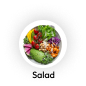
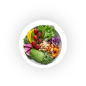
added FoodCircle and completed page

Changed region(s): [[0.3721, 0.814, 0.6512, 0.9302]]

diff --git a/lib/screens/food_offer.dart b/lib/screens/food_offer.dart
@@ -1,0 +1,151 @@
+import 'package:flutter/material.dart';
+import 'package:shimmer_app/widgets/food_card.dart';
+import 'package:shimmer_app/widgets/food_circle.dart';
+import '../utils/colored_side.dart';
+
+class FoodOffer extends StatefulWidget {
+  const FoodOffer({super.key});
+
+  @override
+  State<FoodOffer> createState() => _FoodOfferState();
+}
+
+class _FoodOfferState extends State<FoodOffer> {
+  List<String> mainImages = [
+    'assets/images/burger.png',
+    'assets/images/pizza.png',
+    'assets/images/pasta.png'
+  ];
+
+  List<String> dishes = [
+    'assets/images/food1.png',
+    'assets/images/food2.png',
+    'assets/images/food3.png',
+    'assets/images/food4.png',
+    'assets/images/food5.png',
+    'assets/images/food6.png',
+    'assets/images/food7.png',
+    'assets/images/food8.png',
+  ];
+
+  List<String> foodNames = [
+    'Vegan',
+    'Sea food',
+    'Fast food',
+    'Kebab',
+    'Salad',
+    'Dessert',
+    'Cake',
+    'Coffee'
+  ];
+
+  @override
+  Widget build(BuildContext context) {
+    return Scaffold(
+      body: SafeArea(
+        child: Stack(
+          clipBehavior: Clip.none,
+          children: [
+            Container(
+              child: CustomPaint(
+                size: const Size(144, 800),
+                painter: ColoredSide(),
+              ),
+            ),
+            const Positioned(
+                top: 60,
+                left: 32,
+                child: Icon(
+                  Icons.menu,
+                  size: 35,
+                )),
+            Positioned(
+                top: 16,
+                left: 125,
+                child: Image.asset('assets/images/logo.png')),
+            const Positioned(
+              top: 150,
+              left: 40,
+              child: Column(
+                children: [
+                  Text('Delicious Food? ', style: TextStyle(fontSize: 15)),
+                  Text(
+                    'Go Ahead...',
+                    style: TextStyle(fontSize: 15),
+                  ),
+                ],
+              ),
+            ),
+            Positioned(
+              top: 239,
+              left: 43,
+              child: SizedBox(
+                height: 138,
+                width: 275,
+                child: Row(
+                    mainAxisAlignment: MainAxisAlignment.spaceEvenly,
+                    children: List.generate(3, (index) {
+                      return FoodCard(imagePath: mainImages[index]);
+                    })),
+              ),
+            ),
+            Positioned(
+                top: 434,
+                left: 143,
+                child: Container(
+                  height: 17,
+                  width: 72,
+                  decoration: const BoxDecoration(
+                      border: Border(
+                          bottom: BorderSide(
+                              color: Color.fromRGBO(50, 117, 255, 1)))),
+                  child: const Center(
+                    child: Text(
+                      'See More...',
+                      style: TextStyle(
+                          fontSize: 10, color: Color.fromRGBO(50, 117, 255, 1)),
+                    ),
+                  ),
+                )),
+            Positioned(
+              top: 467,
+              left: 25,
+              child: Column(
+                mainAxisAlignment: MainAxisAlignment.center,
+                children: [
+                  SizedBox(
+                    height: 70,
+                    width: 321,
+                    child: Row(
+                      mainAxisAlignment: MainAxisAlignment.spaceEvenly,
+                      children: List.generate(4, (index) {
+                        return FoodCircle(
+                          imagePath: dishes[index],
+                          foodName: foodNames[index],
+                        );
+                      }),
+                    ),
+                  ),
+                  const SizedBox(
+                    height: 16,
+                  ),
+                  SizedBox(
+                    height: 70,
+                    width: 321,
+                    child: Row(
+                        mainAxisAlignment: MainAxisAlignment.spaceEvenly,
+                        children: List.generate(4, (index) {
+                          return FoodCircle(
+                              imagePath: dishes[index + 4],
+                              foodName: foodNames[index + 4]);
+                        })),
+                  ),
+                ],
+              ),
+            ),
+          ],
+        ),
+      ),
+    );
+  }
+}

diff --git a/lib/screens/home_screen.dart b/lib/screens/home_screen.dart
@@ -1,6 +1,7 @@
 import 'package:flutter/material.dart';
-import 'package:shimmer_app/food_offer.dart';
+import 'package:shimmer_app/screens/food_offer.dart';
 import 'package:icons_plus/icons_plus.dart';
+import 'package:shimmer_app/screens/welcome_screen.dart';
 
 class HomeScreen extends StatefulWidget {
   const HomeScreen({super.key});
@@ -11,11 +12,11 @@ class HomeScreen extends StatefulWidget {
 
 class _HomeScreenState extends State<HomeScreen> {
   List<Widget> pages = [
+    const WelcomeScreen(),
     const FoodOffer(),
-    const FoodOffer(),
-    const FoodOffer(),
-    const FoodOffer(),
-    const FoodOffer(),
+    const WelcomeScreen(),
+    const WelcomeScreen(),
+    const WelcomeScreen(),
   ];
   int pageIndex = 0;
 
@@ -34,19 +35,28 @@ class _HomeScreenState extends State<HomeScreen> {
         ),
         child: NavigationBar(
           selectedIndex: pageIndex,
-          destinations: const [
-            NavigationDestination(
-                icon: Icon(AntDesign.home_outline), label: ''),
-            NavigationDestination(
-                icon: Icon(AntDesign.heart_outline), label: ''),
-            NavigationDestination(
+          destinations: [
+            const NavigationDestination(
                 icon: Icon(
-                  AntDesign.shopping_cart_outline,
+                  AntDesign.home_outline,
+                  color: Color.fromRGBO(255, 2, 2, 1),
                 ),
                 label: ''),
+            const NavigationDestination(
+                icon: Icon(AntDesign.heart_outline), label: ''),
             NavigationDestination(
+                icon: Container(
+                  decoration: const BoxDecoration(
+                      color: Color.fromRGBO(255, 106, 106, 1),
+                      shape: BoxShape.circle),
+                  child: const Icon(
+                    AntDesign.shopping_cart_outline,
+                  ),
+                ),
+                label: ''),
+            const NavigationDestination(
                 icon: Icon(AntDesign.bell_outline), label: ''),
-            NavigationDestination(
+            const NavigationDestination(
                 icon: Icon(
                   AntDesign.user_outline,
                 ),

diff --git a/lib/widgets/food_circle.dart b/lib/widgets/food_circle.dart
@@ -1,0 +1,71 @@
+import 'package:flutter/material.dart';
+import 'package:shimmer_animation/shimmer_animation.dart';
+
+class FoodCircle extends StatefulWidget {
+  final String imagePath;
+  final String foodName;
+  const FoodCircle({super.key, required this.imagePath, required this.foodName});
+
+  @override
+  State<FoodCircle> createState() => _FoodCircleState();
+}
+
+class _FoodCircleState extends State<FoodCircle> {
+  late bool isLoading;
+
+  @override
+  void initState() {
+    isLoading = true;
+    super.initState();
+    Future.delayed(const Duration(seconds: 5), () {
+      setState(() {
+        isLoading = false;
+      });
+    });
+  }
+  @override
+  Widget build(BuildContext context) {
+    return isLoading ? Shimmer(
+      duration: const Duration(seconds: 1),
+      direction: const ShimmerDirection.fromLeftToRight(),
+      child: Container(
+        height: 48,
+        width: 48,
+        decoration: const BoxDecoration(
+          shape: BoxShape.circle,
+          gradient: LinearGradient(colors: [
+            Color.fromRGBO(255, 255, 255, 1),
+            Color.fromRGBO(153, 153, 153, 1)
+          ]),
+          boxShadow: [
+            BoxShadow(
+                blurRadius: 20,
+                spreadRadius: -1,
+                offset: Offset(0, -1),
+                color: Color.fromRGBO(0, 0, 0, 0.25))
+          ],
+        ),
+      ),
+    )
+    :
+   Container(
+        height: 70,
+        width: 70,
+        decoration: const BoxDecoration(
+          shape: BoxShape.circle,
+        ),
+        child: Column(
+          mainAxisAlignment: MainAxisAlignment.center,
+          crossAxisAlignment: CrossAxisAlignment.center,
+          children: [
+            Image.asset(widget.imagePath,
+            height: 57,
+            width: 60,
+            fit: BoxFit.cover,),
+            Text(widget.foodName, style: TextStyle(fontSize: 9, fontWeight: FontWeight.w500),)
+          ],
+        ),
+      )
+    ;
+  }
+}

diff --git a/lib/screens/welcome_screen.dart b/lib/screens/welcome_screen.dart
@@ -1,15 +1,9 @@
 import 'package:flutter/material.dart';
-import 'package:shimmer_app/widgets/food_card.dart';
-import './utils/colored_side.dart';
+import '../utils/colored_side.dart';
 
-class FoodOffer extends StatefulWidget {
-  const FoodOffer({super.key});
+class WelcomeScreen extends StatelessWidget {
+  const WelcomeScreen({super.key});
 
-  @override
-  State<FoodOffer> createState() => _FoodOfferState();
-}
-
-class _FoodOfferState extends State<FoodOffer> {
   @override
   Widget build(BuildContext context) {
     return Scaffold(
@@ -39,22 +33,11 @@ class _FoodOfferState extends State<FoodOffer> {
               left: 40,
               child: Column(
                 children: [
-                  Text('Delicious Food? '),
-                  Text('Go Ahead...'),
-                ],
-              ),
-            ),
-            Positioned(
-              top: 239,
-              left: 43,
-              child: Row(
-                children: [
-                  FoodCard(),
-                  SizedBox(width:22 ,),
-                  FoodCard(),
-                  SizedBox(width:22 ,),
-                  FoodCard(),
-                  
+                  Text('Delicious Food? ', style: TextStyle(fontSize: 15)),
+                  Text(
+                    'Go Ahead...',
+                    style: TextStyle(fontSize: 15),
+                  ),
                 ],
               ),
             ),

diff --git a/lib/widgets/food_card.dart b/lib/widgets/food_card.dart
@@ -2,7 +2,8 @@ import 'package:flutter/material.dart';
 import 'package:shimmer_animation/shimmer_animation.dart';
 
 class FoodCard extends StatefulWidget {
-  const FoodCard({super.key});
+  final String imagePath;
+  const FoodCard({super.key, required this.imagePath});
 
   @override
   State<FoodCard> createState() => _FoodCardState();
@@ -15,7 +16,7 @@ class _FoodCardState extends State<FoodCard> {
   void initState() {
     isLoading = true;
     super.initState();
-    Future.delayed(Duration(seconds: 5), () {
+    Future.delayed(const Duration(seconds: 5), () {
       setState(() {
         isLoading = false;
       });
@@ -24,8 +25,8 @@ class _FoodCardState extends State<FoodCard> {
   @override
   Widget build(BuildContext context) {
     return isLoading ? Shimmer(
-      duration: Duration(seconds: 1),
-      direction: ShimmerDirection.fromLeftToRight(),
+      duration: const Duration(seconds: 1),
+      direction: const ShimmerDirection.fromLeftToRight(),
       child: Container(
         height: 138,
         width: 77,
@@ -57,7 +58,7 @@ class _FoodCardState extends State<FoodCard> {
                 color: Color.fromRGBO(0, 0, 0, 0.25))
           ],
         ),
-        child: Image.asset('assets/images/burger.png'),
+        child: Image.asset(widget.imagePath),
       )
     ;
   }

diff --git a/lib/main.dart b/lib/main.dart
@@ -1,5 +1,5 @@
 import 'package:flutter/material.dart';
-import 'package:shimmer_app/home_screen.dart';
+import 'package:shimmer_app/screens/home_screen.dart';
 
 void main() {
   runApp(const MainApp());
